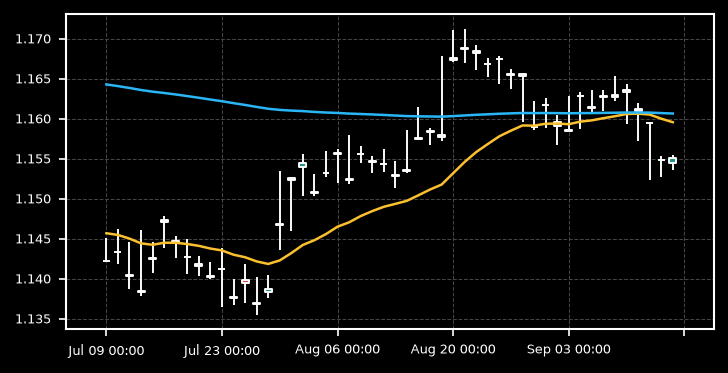
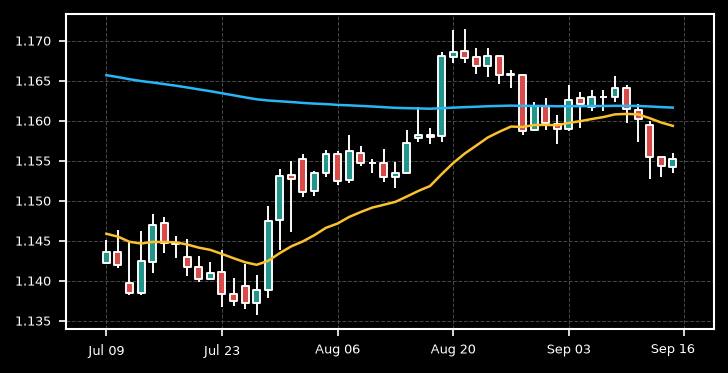
deploy: 436568c6efecda8b0902688c59e8abd36e8ef90c

diff --git a/generate_charts.py b/generate_charts.py
@@ -22,16 +22,28 @@ import yfinance as yf
 
 def generate_chart(timeframe, period, filename):
     ticker = "EURUSD=X"
-    data = yf.download(
-        ticker,
-        period=period,
-        interval=timeframe,
-        progress=False,
-        auto_adjust=False,
-    )
 
-    if hasattr(data.columns, "levels") and len(data.columns.levels) > 1:
-        data.columns = data.columns.get_level_values(0)
+    if timeframe.lower() in ["1d", "d1"]:
+        raw_data = yf.download(
+            ticker, period="1y", interval="1h", progress=False, auto_adjust=False
+        )
+        if hasattr(raw_data.columns, "levels") and len(raw_data.columns.levels) > 1:
+            raw_data.columns = raw_data.columns.get_level_values(0)
+
+        data = raw_data.resample("24h").agg(
+            {"Open": "first", "High": "max", "Low": "min", "Close": "last"}
+        ).dropna()
+    else:
+        data = yf.download(
+            ticker, period=period, interval=timeframe, progress=False, auto_adjust=False
+        )
+        if hasattr(data.columns, "levels") and len(data.columns.levels) > 1:
+            data.columns = data.columns.get_level_values(0)
+
+    if data.index.tz is None:
+        data.index = data.index.tz_localize("UTC").tz_convert("Europe/Rome")
+    else:
+        data.index = data.index.tz_convert("Europe/Rome")
 
     data["EMA21"] = data["Close"].ewm(span=21, adjust=False).mean()
     data["EMA200"] = data["Close"].ewm(span=200, adjust=False).mean()
@@ -42,7 +54,7 @@ def generate_chart(timeframe, period, filename):
         mpf.make_addplot(plot_data["EMA21"], color="#fbc02d", width=1.2),
         mpf.make_addplot(plot_data["EMA200"], color="#29b6f6", width=1.2),
     ]
-    
+
     mc = mpf.make_marketcolors(
         up="#26a69a",
         down="#ef5350",
@@ -72,6 +84,9 @@ def generate_chart(timeframe, period, filename):
             "grid.linewidth": 0.5,
         },
     )
+    
+    is_daily = "d" in timeframe.lower()
+    dt_fmt = "%b %d" if is_daily else "%b %d %H:%M"
 
     fig, axes = mpf.plot(
         plot_data,
@@ -82,10 +97,24 @@ def generate_chart(timeframe, period, filename):
         ylabel="",
         returnfig=True,
         figsize=(6, 3),
-        datetime_format="%b %d %H:%M",
+        datetime_format=dt_fmt,
         xrotation=0,
     )
 
+    ax = axes[0]
+    last_dt = plot_data.index[-1].strftime(dt_fmt)
+    
+    ax.text(
+        len(plot_data) - 1,
+        -0.045,
+        last_dt,
+        transform=ax.get_xaxis_transform(),
+        color="white",
+        fontsize=6,
+        ha="center",
+        va="top",
+    )
+    
     fig.savefig(filename, bbox_inches="tight", dpi=150, facecolor="black")
     plt.close(fig)
 
